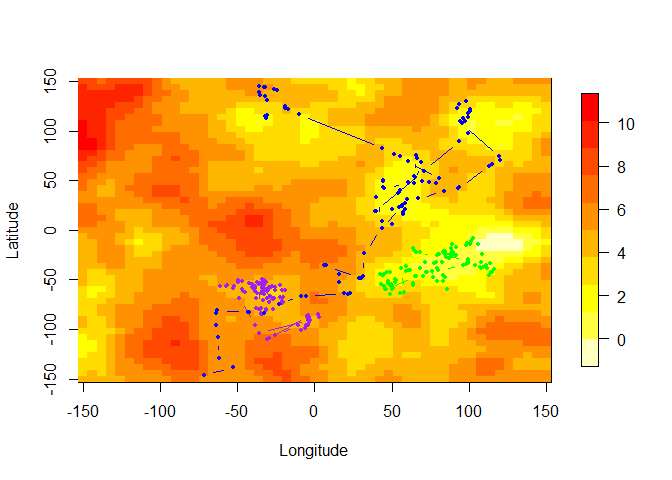
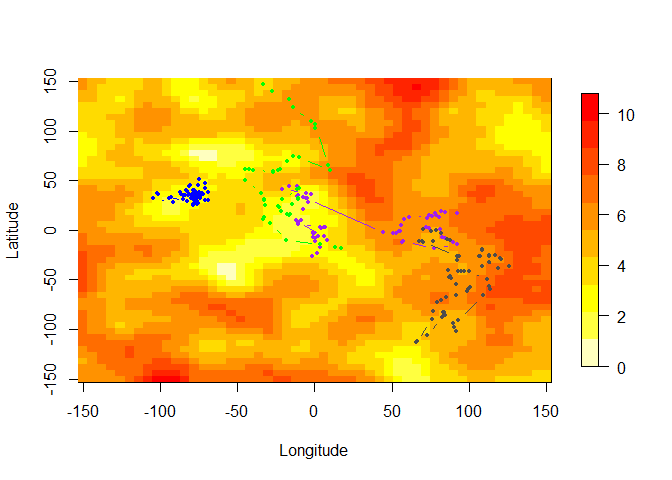
fine tuning

diff --git a/README.md b/README.md
@@ -18,22 +18,15 @@ Note that running this code (in particular the compilation of the C++ file) requ
 Simulation Example
 ------------------
 
-First we source the file [dataFncs.R](dataFncs.R) which contains the necessary functions to generate the data (not to fit any models). Then we compile the file [TMBfile.cpp](TMBfile.cpp) to use in TMB. This file contains the negative joint log-likelihood function −log(\[*X*, *Y*, *S*\]). Note that you must have installed the [TMB](https://cran.r-project.org/package=TMB) `R` package from CRAN.
+First we source the file [dataFncs.R](dataFncs.R) which contains the necessary functions to generate the data.
 
 ``` r
 source('dataFncs.R')
-compile("TMBfile.cpp")
 ```
 
-    ## [1] 0
+Now to specify the parameters to generate the data set. These can be altered to vary the properties of the latent field to be sampled and also to change the movement patterns of the sampler. Refer to the paper for more details on the model.
 
-``` r
-dyn.load(dynlib("TMBfile"))
-```
-
-Now to specify the parameters to generate the data set. These can be altered to vary the properties of the latent field to be sampled and also to change the movement patterns of the sampler.
-
-First specify the field parameters sasuming a matern covariance structure:
+First we specify the field parameters sasuming a matern covariance structure:
 
 ``` r
 # constant mean
@@ -52,7 +45,7 @@ model <- RMwhittle(nu=kappa, var=GPVar, scale=phi)
 trend <- 0
 ```
 
-Now to specify movement/sampler properties:
+Next we specify the parameters that determine the movement/sampler properties:
 
 ``` r
 # is starting location random? (0 = yes and >0 multivariate normal with
@@ -61,11 +54,11 @@ start <- 0
 # alpha[1] defines starting value of beta_1 from eq (3.5)
 # alpha[2:3] are currently both equal to \alpha from eq (3.2). They could be changed to
 # adopt preferential movement varying in strength across latitude/longitude.
-alpha <- c(.5, 150,150) 
+alpha <- c(.5, 150, 150) 
 # the number of tracks in the simulation
-numTracks <- 3
+numTracks <- 4
 # the number of data points to simulate per track
-n <- 120
+n <- 80
 # the number of observations to throw out per track (ie/ total sample
 # size per track is n-burnIn)
 burnIn <- 20
@@ -80,7 +73,7 @@ moveSD <- 12
 dataParam <- c(behavSD, moveSD)
 ```
 
-Next we create a lattice for data simulation and also for model fitting/predictions. These can be the same if `nrowcol` = `l` but we can choose different grids for computational efficiency.
+We now create a lattice for data simulation and also for model fitting/predictions. These can be the same if `nrowcol` = `l` but we can choose different grid sizes for computational efficiency.
 
 ``` r
 # define the domain to simulate data
@@ -102,10 +95,24 @@ lattice <- expand.grid(xseq,yseq)
 colnames(lattice) <- c("Y1New", "Y2New")
 ```
 
+<!-- ```{r initiate, include=FALSE} -->
+<!-- # initiate objects -->
+<!-- # nonPrefParams <- NULL -->
+<!-- # prefParams <- NULL -->
+<!-- # postBias <- NULL -->
+<!-- # krigBias <- NULL -->
+<!-- # nonPrefBias <- NULL -->
+<!-- # postIGN <-  NULL -->
+<!-- # krigIGN <- NULL -->
+<!-- # nonPrefIGN <- NULL -->
+<!-- # nonPrefParams <- array(NA, dim=c(1, 4)) -->
+<!-- # prefParams <- array(NA, dim=c(1, 8)) -->
+<!-- ``` -->
 Now we can generate the data. We first simulate the latent field and then run the sampler using `genPrefDataHybridBehav` which can be found in `dataFncs.R`. From here we will extract the data and the so-called true surface on the lattice and observed locations
 
 ``` r
 # simulate the random field
+set.seed(1)
 rawDat <- RFsimulate(model, x=as.matrix(gridFull),  exactness=TRUE)
 # simulate the observations and sampling locations
 Xsim <- genPrefDataHybridBehav(n=n, movementParam=dataParam, nrowcol=nrowcol, m=0, 
@@ -131,6 +138,13 @@ head(data)
 Here is how the data looks. Each colour is a different track and dots are sampling locations which are superimposed onto the unknown latent field.
 
 ![](README_files/figure-markdown_github/plotdata-1.png)
+
+Now we compile the file [TMBfile.cpp](TMBfile.cpp) to use in TMB. This file contains the negative joint log-likelihood function −log(\[*X*, *Y*, *S*\]). Note that you must have installed the [TMB](https://cran.r-project.org/package=TMB) `R` package from CRAN.
+
+``` r
+compile("TMBfile.cpp")
+dyn.load(dynlib("TMBfile"))
+```
 
 Next is some house keeping to prepare the data for TMB
 
@@ -163,8 +177,8 @@ Next we create a mesh using `inla.mesh.create` for the SPDE approach of `R-INLA`
 
 ``` r
 # create INLA mesh
-mesh <- inla.mesh.create(loc = predGrid, extend = T, refine = T) 
-# now create an index that matches sampling locations with mesh locations 
+mesh <- inla.mesh.create(loc = predGrid, extend = T, refine = T)
+# now create an index that matches sampling locations with mesh locations
 ii0 <- mesh$idx$loc
 # Create data for TMB
 dataTMB <- list(tsim=tsim,Y1=Y1New, Y2=Y2New, Y=Yobs, trackId=trackId,  meshidxloc=mesh$idx$loc-1)
@@ -217,10 +231,10 @@ standardMLE <- likfit(geodata, coords = geodata$coords, data = geodata$data, kap
 
     ## likfit: estimated model parameters:
     ##      beta     tausq   sigmasq       phi 
-    ## " 4.0803" " 0.0869" " 2.7626" "15.4521" 
-    ## Practical Range with cor=0.05 for asymptotic range: 82.95258
+    ## " 4.8765" " 0.0866" " 2.5514" "12.6037" 
+    ## Practical Range with cor=0.05 for asymptotic range: 67.66141
     ## 
-    ## likfit: maximised log-likelihood = -182
+    ## likfit: maximised log-likelihood = -155.4
 
 Next we will fit the model in `TMB`. First we define the parameters for the model (including latent states). Our latent states are the field *S* and behavioural states *b**e**t**a*'s. We start the other parameters
 
@@ -253,7 +267,7 @@ opt$convergence
     ## [1] 0
 
 ``` r
-# Obtain the standard errors    
+# Obtain the standard errors
 sdre <- try( sdreport(obj) )
 if( class(sdre) != 'try-error') {
   # input params
@@ -261,14 +275,14 @@ if( class(sdre) != 'try-error') {
 }
 ```
 
-    ##                Estimate  Std. Error
-    ## mu             4.402713  0.56326479
-    ## log_papertau   3.347267  0.14287058
-    ## log_kappa     -2.755267  0.12632146
-    ## log_tau       -1.235530  0.04884612
-    ## alpha        144.029794 17.45628969
-    ## log_d          2.531945  0.03089099
-    ## log_sdbehav   -1.897622  0.30079276
+    ##               Estimate  Std. Error
+    ## mu            5.064511  0.50094354
+    ## log_papertau  3.037084  0.15505027
+    ## log_kappa    -2.558404  0.12705914
+    ## log_tau      -1.221102  0.06041476
+    ## alpha        85.027308 13.62016512
+    ## log_d         2.426771  0.03636466
+    ## log_sdbehav  -2.383363  0.39969434
 
 ``` r
 # prediction variance from TMB
@@ -325,12 +339,12 @@ IgnScoreNonPref <- IGN(nonPredPref$predict, rawDatSmall, nonPredPref$krige.var)
 mean(IgnScorePost)
 ```
 
-    ## [1] 1.15876
+    ## [1] 1.054781
 
 ``` r
 mean(IgnScoreNonPref)
 ```
 
-    ## [1] 1.475744
+    ## [1] 1.084511
 
 Finally we can plot the IGN scores and compare predictive surfaces from the non-preferential and preferential models. We consider only prediction locations in regions near the sampling locations: ![](README_files/figure-markdown_github/showign-1.png)![](README_files/figure-markdown_github/showign-2.png)![](README_files/figure-markdown_github/showign-3.png) Note that the mean IGN for the following two plots are 0.41 (TMB) and 0.64 (kriging) respectively. ![](README_files/figure-markdown_github/plotign2-1.png)![](README_files/figure-markdown_github/plotign2-2.png)
